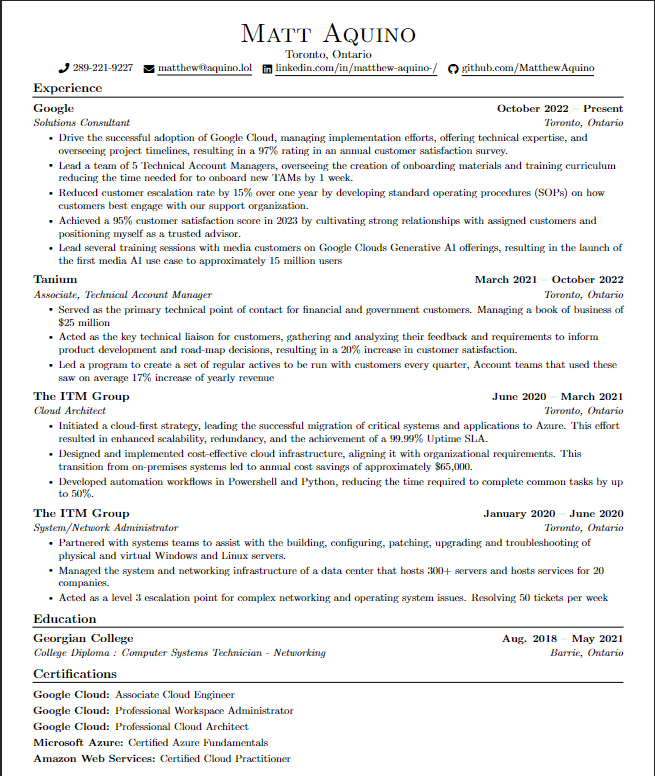
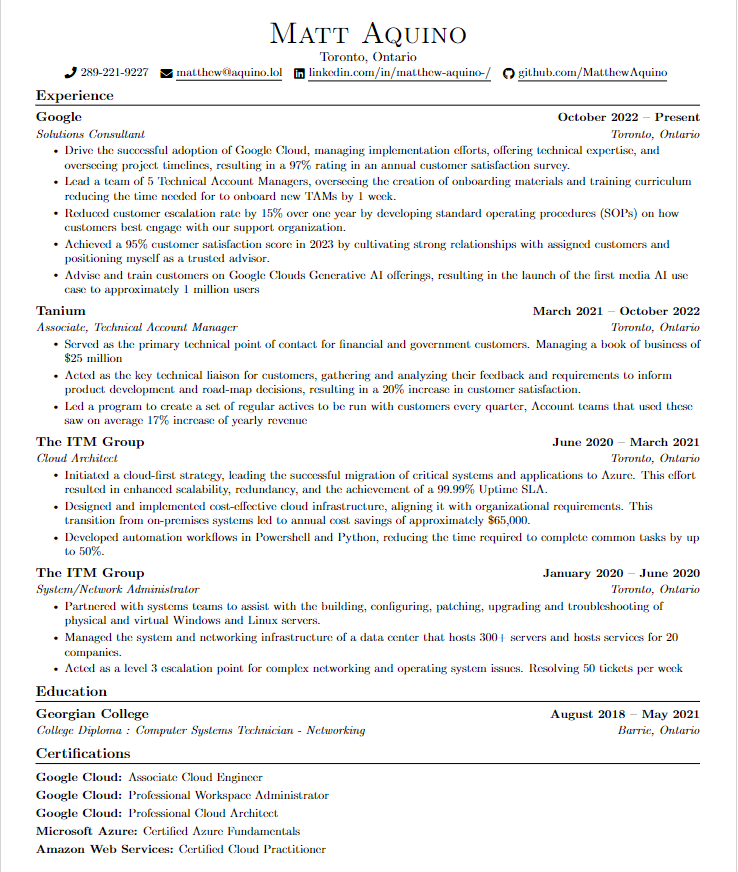
Date Formating
Fixed date formating

Changed region(s): [[0.0305, 0.0, 1.0, 1.0], [0.0, 0.0, 0.0305, 0.0309]]

diff --git a/main.tex b/main.tex
@@ -113,7 +113,6 @@
 %-------------------------------------------
 %%%%%%  RESUME STARTS HERE  %%%%%%%%%%%%%%%%%%%%%%%%%%%%
 
-
 \begin{document}
 
 %----------HEADING----------
@@ -143,7 +142,7 @@
         \resumeItem{Lead a team of 5 Technical Account Managers, overseeing the creation of onboarding materials and training curriculum reducing the time needed for to onboard new TAMs by 1 week.}
         \resumeItem{Reduced customer escalation rate by 15\% over one year by developing standard operating procedures (SOPs) on how customers best engage with our support organization.}
         \resumeItem{Achieved a 95\% customer satisfaction score in 2023 by cultivating strong relationships with assigned customers and positioning myself as a trusted advisor.}
-        \resumeItem{Lead several training sessions with media customers on Google Clouds Generative AI offerings, resulting in the launch of the first media AI use case to approximately 15 million users}
+        \resumeItem{Advise and train customers on Google Clouds Generative AI offerings, resulting in the launch of the first media AI use case to approximately 1 million users}
       \resumeItemListEnd
 
     \resumeSubheading
@@ -180,7 +179,7 @@
 \section{Education}
   \resumeSubHeadingListStart
     \resumeSubheading
-      {Georgian College}{Aug. 2018 -- May 2021}
+      {Georgian College}{August 2018 -- May 2021}
       {College Diploma : Computer Systems Technician - Networking}{Barrie, Ontario}
   \resumeSubHeadingListEnd
 
